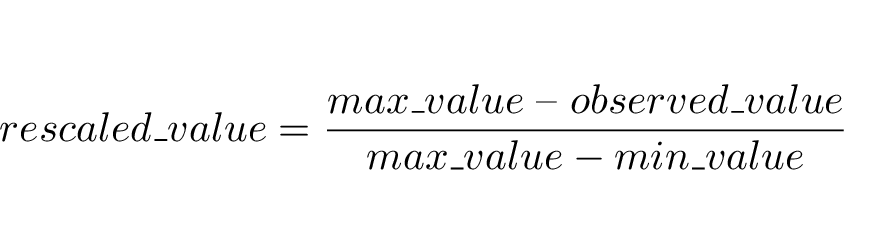
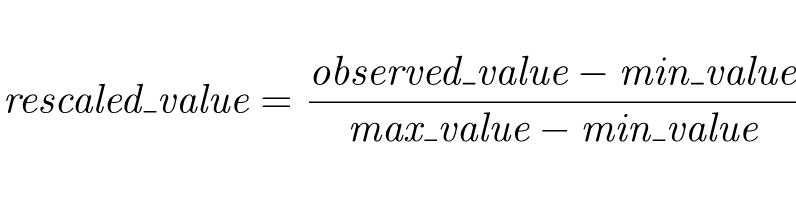
Updating formula

Changed region(s): [[0.0, 0.27, 1.0, 0.72]]

diff --git a/themes/ppi/content/pages/app/index.md b/themes/ppi/content/pages/app/index.md
@@ -78,7 +78,7 @@ Download template
 
 Before filling in the indicators template, you need to perform two preprocessing steps that you need to perform to each of your time series. First, all the values need to be re-scaled to be between 0 and 1. This will help the app to calibrate the model faster. This practice is common in development quantitative studies and usually follows the formula:
 
-<img style="max-width:400px;margin-bottom:1rem" alt="rescaled_value = (max_value – observed_value) / (max_value - min_value)" src="formula1.png">
+<img style="max-width:400px;margin-bottom:1rem" alt="rescaled_value = (observed_value - min_value) / (max_value - min_value)" src="formula1.png">
 
 
 Here, max_value and min_value represent the largest and smallest observations that could be considered as potential values and, therefore, they correspond to 1 and 0 in the re-scaled series, respectively. There are different criteria to choose max_value and min_value, for example, using the theoretical limits of the indicators, using values from countries that represent best and worst cases, or taking the extreme observations in the dataset.  
